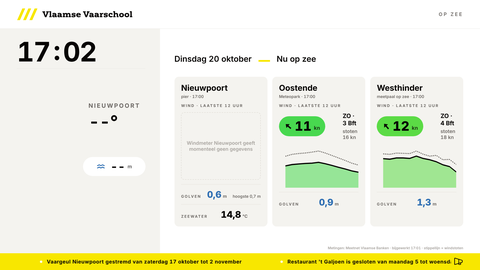
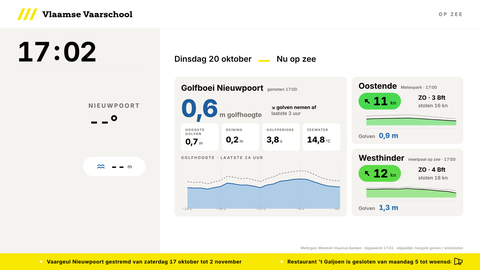
Nu op zee: golfboei Nieuwpoort centraal, wind Oostende en Westhinder ernaast
Claude-Session: https://claude.ai/code/session_015pmcVukAZiAihLGu2aahse

diff --git a/nu-op-zee.html b/nu-op-zee.html
@@ -167,27 +167,40 @@ header{padding:3vh 3.5vw !important}
 .wtag{display:flex;align-items:center;justify-content:center;gap:.25vw;width:100%;height:100%;border-radius:1vh;font-size:var(--t-num-s);font-weight:800}
 .wtag svg{width:1.7vh;height:1.7vh;fill:currentColor;flex:none}
 
-/* ===== nu op zee ===== */
+/* ===== nu op zee: boei Nieuwpoort centraal, wind van Oostende en Westhinder ernaast ===== */
 .prog{grid-template-rows:auto 1fr !important}
 .title{margin-bottom:var(--s4) !important}
-.zee{display:grid;grid-template-columns:repeat(3,minmax(0,1fr));gap:1vw;min-height:0;align-content:start}
+.zee{display:grid;grid-template-columns:minmax(0,1.55fr) minmax(0,1fr);gap:1vw;min-height:0;align-content:start}
+.kol{display:grid;gap:1vw;align-content:start;min-width:0}
+.wk{gap:var(--s1) !important;padding:var(--s2) 1.4vw !important}
 .st{background:var(--panel);border-radius:1.6vh;padding:var(--s3) 1.4vw;display:grid;gap:var(--s2);align-content:start;min-width:0;overflow:hidden}
-.st .nm{display:grid;gap:.4vh}
+.st .nm{display:flex;align-items:baseline;gap:.8vw;flex-wrap:wrap}
 .st .nm b{font-size:var(--t-title);font-weight:700}
-.st .nm span{font-size:1.5vh;font-weight:600;color:var(--muted);white-space:nowrap}
+.st .nm span{font-size:1.5vh;font-weight:600;color:var(--muted)}
 .st .k{font-size:var(--t-label);font-weight:700;letter-spacing:.2em;text-transform:uppercase;color:var(--muted)}
-.st .wind{display:flex;align-items:center;gap:1vw}
-.st .big{display:flex;align-items:center;gap:.5vw;height:7.4vh;padding:0 1.1vw;border-radius:999px;font-size:4.8vh;flex:none;font-weight:800;line-height:1}
-.st .big svg{width:3vh;height:3vh;fill:currentColor}
-.st .big small{font-size:1.9vh;font-weight:700;opacity:.75;margin-top:1.4vh}
-.st .wtx{display:grid;gap:.5vh;font-size:var(--t-text);font-weight:600;color:var(--muted);min-width:0}
-.st .wtx b{color:var(--fg);font-weight:700;font-size:2.2vh}
-.st svg.spark{width:100%;height:16vh;display:block}
-.st .rij{display:flex;align-items:baseline;justify-content:space-between;gap:.6vw;padding-top:var(--s2);border-top:1px solid #e2dfd8}
-.st .rij .v{font-size:3.4vh;font-weight:800;color:#2f6fb3}
-.st .rij .v small{font-size:1.6vh;font-weight:700;color:var(--muted);margin-left:.3vw}
-.st .rij .x{font-size:1.5vh;font-weight:600;color:var(--muted);text-align:right}
-.st .geen{font-size:var(--t-text);font-weight:600;color:var(--soft);height:calc(7.4vh + 16vh + var(--s2));display:flex;align-items:center;justify-content:center;text-align:center;border:2px dashed #e2dfd8;border-radius:1.2vh;padding:0 1vw}
+/* boei */
+.boei .hoofd{display:flex;align-items:flex-end;gap:2vw}
+.boei .gh{display:flex;align-items:baseline;gap:.4vw;color:#1f5d9e}
+.boei .gh b{font-size:9vh;font-weight:800;line-height:.9;letter-spacing:-.02em}
+.boei .gh small{font-size:2.4vh;font-weight:700;color:var(--muted)}
+.boei .trend{font-size:var(--t-text);font-weight:700;padding-bottom:1vh}
+.boei .feiten{display:grid;grid-template-columns:repeat(4,minmax(0,1fr));gap:.6vw}
+.boei .f{background:#fff;border-radius:1.2vh;padding:var(--s2) .9vw;display:grid;gap:.4vh}
+.boei .f .k{font-size:1.2vh;letter-spacing:.14em}
+.boei .f b{font-size:3vh;font-weight:800}
+.boei .f b small{font-size:1.5vh;font-weight:700;color:var(--muted);margin-left:.2vw}
+.boei svg.golf{width:100%;height:17vh;display:block}
+/* windkaarten */
+.wk .wind{display:flex;align-items:center;gap:1vw}
+.wk .big{display:flex;align-items:center;gap:.5vw;height:6.2vh;padding:0 1vw;border-radius:999px;font-size:4.2vh;font-weight:800;line-height:1;flex:none}
+.wk .big svg{width:2.8vh;height:2.8vh;fill:currentColor}
+.wk .big small{font-size:1.8vh;font-weight:700;opacity:.75;margin-top:1.3vh}
+.wk .wtx{display:grid;gap:.5vh;font-size:var(--t-text);font-weight:600;color:var(--muted);min-width:0}
+.wk .wtx b{color:var(--fg);font-weight:700;font-size:2.2vh}
+.wk svg.spark{width:100%;height:5.5vh;display:block}
+.wk .rij{display:flex;align-items:baseline;gap:.8vw;padding-top:var(--s1);border-top:1px solid #e2dfd8;font-size:var(--t-text);font-weight:600;color:var(--muted)}
+.wk .rij b{font-size:2.6vh;font-weight:800;color:#2f6fb3}
+.geen{font-size:var(--t-text);font-weight:600;color:var(--soft)}
 .src{font-size:1.3vh;font-weight:600;color:var(--soft)}
 
 </style>
@@ -249,11 +262,12 @@ const windTag=(kn,dir,extra="")=>{const c=windFill(kn);return `<span class="wtag
 
 /* ---------- nu op zee ----------
    Echte metingen van het Meetnet Vlaamse Banken (via het Apps Script "VVS Meetnet").
-   Per station: wind (gemiddeld, stoten, richting) en golfhoogte. Wind in m/s → knopen.
-   Een meting ouder dan 60 minuten telt als "geen recente meting". */
+   Links: de golfboei van Nieuwpoort (de belangrijkste voor VVS). Rechts: wind in Oostende en op de Westhinder.
+   Wind in m/s → knopen, golven in cm → m. Ouder dan 60 min (golven 90 min) = geen recente meting. */
 const MEETNET_URL="https://script.google.com/macros/s/AKfycbyqwihodr-9sSxnsg8s-4m0jpcdCpMeMi9-0u7YmMVJE1ZrU1nbyXQ88DQ4D0jSqmms/exec";
-const STATIONS=[
-  {naam:"Nieuwpoort",sub:"pier",wind:["NP7"],golf:"NPBGHA",golfMax:"NPBGH1",temp:"NPBTZW"},
+const BOEI={golf:"NPBGHA",hoog:"NPBGH1",deining:"NPBHLF",periode:"NPBGTZ",temp:"NPBTZW"};
+const WINDSTATIONS=[
+  {naam:"Nieuwpoort",sub:"pier",wind:["NP7"],verberg:true},          // alleen tonen als de windmeter werkt
   {naam:"Oostende",sub:"Meteopark",wind:["OMP","OS7"],golf:"OSNGHA"},
   {naam:"Westhinder",sub:"meetpaal op zee",wind:["MP7"],golf:"WHIGHA"}];
 const KN=1.943844, VERS=60*6e4;
@@ -261,39 +275,57 @@ let ZEE=null;
 const hm=d=>pad2(d.getHours())+":"+pad2(d.getMinutes());
 const reeksVan=(R,id)=>(R[id]||[]).filter(x=>x[1]!=null).map(([t,v])=>({t:new Date(t),v}));
 const laatste=r=>r.length?r[r.length-1]:null;
+const vers=(x,ms)=>x&&Date.now()-x.t<ms?x:null;
 async function loadZee(){
   try{const r=await fetch(MEETNET_URL,{cache:"no-store"});const d=await r.json();if(!d.reeksen)throw 0;ZEE=d;renderZee();}
   catch(e){if(ZEE)renderZee();}
 }
-function spark(sp,gs){
-  if(sp.length<2)return "";
-  const W=400,H=90,t1=Date.now(),t0=t1-12*36e5,mx=Math.max(10,...gs.map(x=>x.v),...sp.map(x=>x.v))*1.1;
-  const X=t=>(t-t0)/(t1-t0)*W,Y=v=>H-v/mx*(H-6);
-  const pts=sp.filter(x=>x.t>=t0),gp=gs.filter(x=>x.t>=t0);if(pts.length<2)return "";
-  const ln=a=>a.map((x,i)=>(i?"L":"M")+X(x.t).toFixed(1)+" "+Y(x.v).toFixed(1)).join("");
-  const kleur=rgb(windFill(laatste(pts).v));
-  return `<svg class="spark" viewBox="0 0 ${W} ${H}" preserveAspectRatio="none"><path d="${ln(pts)}L${X(laatste(pts).t)} ${H}L${X(pts[0].t)} ${H}Z" fill="${kleur}" opacity=".55"/>`+
-    (gp.length>1?`<path d="${ln(gp)}" fill="none" stroke="#6e6a66" stroke-width="2" stroke-dasharray="5 4"/>`:"")+
-    `<path d="${ln(pts)}" fill="none" stroke="#070504" stroke-width="2.5"/></svg>`;
+function lijn(reeksen,uren,H,opties={}){
+  const W=600,t1=Date.now(),t0=t1-uren*36e5;
+  const alle=reeksen.flatMap(r=>r.pts.filter(x=>x.t>=t0));if(alle.length<2)return "";
+  const mx=Math.max(opties.min||0,...alle.map(x=>x.v))*1.12,X=t=>(t-t0)/(t1-t0)*W,Y=v=>H-6-v/mx*(H-14);
+  const d=a=>a.map((x,i)=>(i?"L":"M")+X(x.t).toFixed(1)+" "+Y(x.v).toFixed(1)).join("");
+  let s="";
+  if(opties.as)for(let u=0;u<=uren;u+=6){const x=X(t1-(uren-u)*36e5);s+=`<line x1="${x}" x2="${x}" y1="0" y2="${H}" stroke="#e2dfd8"/>`;
+    s+=`<text x="${Math.min(W-4,Math.max(4,x))}" y="${H-1}" text-anchor="${u===0?"start":u===uren?"end":"middle"}" font-size="13" font-weight="600" fill="#a8a49f">${u===uren?"nu":"−"+(uren-u)+" u"}</text>`;}
+  reeksen.forEach(r=>{const p=r.pts.filter(x=>x.t>=t0);if(p.length<2)return;
+    if(r.vlak)s+=`<path d="${d(p)}L${X(laatste(p).t)} ${H-6}L${X(p[0].t)} ${H-6}Z" fill="${r.vlak}" opacity="${r.op||.5}"/>`;
+    s+=`<path d="${d(p)}" fill="none" stroke="${r.lijn}" stroke-width="${r.dik||2.5}" ${r.stip?'stroke-dasharray="6 5"':""} stroke-linejoin="round"/>`;});
+  return `<svg class="${opties.cls||"spark"}" viewBox="0 0 ${W} ${H}" preserveAspectRatio="none">${s}</svg>`;
+}
+function boeiKaart(R){
+  const g=reeksVan(R,BOEI.golf),gl=vers(laatste(g),90*6e4);
+  const hoog=vers(laatste(reeksVan(R,BOEI.hoog)),90*6e4),dein=vers(laatste(reeksVan(R,BOEI.deining)),90*6e4),
+        per=vers(laatste(reeksVan(R,BOEI.periode)),90*6e4),tmp=vers(laatste(reeksVan(R,BOEI.temp)),3*36e5);
+  if(!gl)return `<div class="st boei"><div class="nm"><b>Golfboei Nieuwpoort</b></div><div class="geen">De boei geeft momenteel geen gegevens.</div></div>`;
+  const vroeger=g.filter(x=>x.t<=new Date(gl.t-3*36e5)).pop(),dv=vroeger?gl.v-vroeger.v:0;
+  const trend=Math.abs(dv)<8?"stabiel":dv>0?"↗ golven nemen toe":"↘ golven nemen af";
+  const m=v=>kom((v/100).toFixed(1));
+  const feit=(k,v,e)=>`<div class="f"><span class="k">${k}</span><b>${v}<small>${e}</small></b></div>`;
+  return `<div class="st boei"><div class="nm"><b>Golfboei Nieuwpoort</b><span>gemeten ${hm(gl.t)}</span></div>
+    <div class="hoofd"><div class="gh"><b>${m(gl.v)}</b><small>m golfhoogte</small></div><div class="trend">${trend}<br><span style="color:var(--muted);font-weight:600">laatste 3 uur</span></div></div>
+    <div class="feiten">${feit("Hoogste golven",hoog?m(hoog.v):"–","m")}${feit("Deining",dein?m(dein.v):"–","m")}${feit("Golfperiode",per?kom(per.v.toFixed(1)):"–","s")}${feit("Zeewater",tmp?kom(tmp.v.toFixed(1)):"–","°C")}</div>
+    <div class="k">Golfhoogte · laatste 24 uur</div>
+    ${lijn([{pts:reeksVan(R,BOEI.hoog).map(x=>({t:x.t,v:x.v/100})),lijn:"#6e6a66",stip:true,dik:2},{pts:g.map(x=>({t:x.t,v:x.v/100})),lijn:"#1f5d9e",vlak:"#6aa7e0",dik:3}],24,190,{cls:"golf",as:true,min:.5})}</div>`;
+}
+function windKaart(R,s){
+  let sp=[],gs=[],dr=[];
+  for(const p of s.wind){const a=reeksVan(R,p+"WVC");if(a.length&&Date.now()-laatste(a).t<VERS){sp=a.map(x=>({t:x.t,v:x.v*KN}));gs=reeksVan(R,p+"WC3").map(x=>({t:x.t,v:x.v*KN}));dr=reeksVan(R,p+"WRS");break;}}
+  const w=laatste(sp),g=laatste(gs),d=laatste(dr);
+  if(!w&&s.verberg)return "";
+  const golf=s.golf?vers(laatste(reeksVan(R,s.golf)),90*6e4):null;
+  const c=w?windFill(w.v):null;
+  return `<div class="st wk"><div class="nm"><b>${s.naam}</b><span>${s.sub}${w?" · "+hm(w.t):""}</span></div>
+    ${w?`<div class="wind"><div class="big" style="background:${rgb(c)};color:${ink(c)}">${d?arrow(d.v):""}${Math.round(w.v)}<small>kn</small></div>
+      <div class="wtx"><b>${d?dirName(d.v)+" · ":""}${bft(w.v)} Bft</b>${g?`stoten ${Math.round(g.v)} kn`:""}</div></div>
+      ${lijn([{pts:sp,lijn:"#070504",vlak:rgb(c),op:.55},{pts:gs,lijn:"#6e6a66",stip:true,dik:2}],12,70,{min:10})}`
+     :`<div class="geen">Windmeter geeft momenteel geen gegevens.</div>`}
+    ${golf?`<div class="rij">Golven <b>${kom((golf.v/100).toFixed(1))} m</b></div>`:""}</div>`;
 }
 function renderZee(){
-  if(!ZEE)return;const R=ZEE.reeksen,nu=Date.now();
-  $("zee").innerHTML=STATIONS.map(s=>{
-    let sp=[],gs=[],dr=[];
-    for(const p of s.wind){const a=reeksVan(R,p+"WVC");if(a.length&&nu-laatste(a).t<VERS){sp=a.map(x=>({t:x.t,v:x.v*KN}));gs=reeksVan(R,p+"WC3").map(x=>({t:x.t,v:x.v*KN}));dr=reeksVan(R,p+"WRS");break;}}
-    const w=laatste(sp),g=laatste(gs),d=laatste(dr);
-    const golf=reeksVan(R,s.golf),gl=laatste(golf),gv=gl&&nu-gl.t<2*VERS?gl:null;
-    const gmax=s.golfMax?laatste(reeksVan(R,s.golfMax)):null;
-    const temp=s.temp?laatste(reeksVan(R,s.temp)):null;
-    const tijd=w?w.t:gv?gv.t:null;
-    const c=w?windFill(w.v):null;
-    const windHtml=w?`<div class="wind"><div class="big" style="background:${rgb(c)};color:${ink(c)}">${d?arrow(d.v):""}${Math.round(w.v)}<small>kn</small></div>
-        <div class="wtx"><b>${d?dirName(d.v)+" · ":""}${bft(w.v)} Bft</b>${g?`stoten ${Math.round(g.v)} kn`:""}</div></div>${spark(sp,gs)}`
-      :`<div class="geen">Windmeter ${s.naam} geeft momenteel geen gegevens</div>`;
-    const golfHtml=`<div class="rij"><span class="k">Golven</span><span class="v">${gv?kom((gv.v/100).toFixed(1)):"–"}<small>m</small></span><span class="x">${gv&&gmax?"hoogste "+kom((gmax.v/100).toFixed(1))+" m":""}</span></div>`;
-    const tempHtml=temp?`<div class="rij"><span class="k">Zeewater</span><span class="v" style="color:var(--fg)">${kom(temp.v.toFixed(1))}<small>°C</small></span><span class="x"></span></div>`:"";
-    return `<div class="st"><div class="nm"><b>${s.naam}</b><span>${s.sub}${tijd?" · "+hm(tijd):""}</span></div><div class="k">Wind · laatste 12 uur</div>${windHtml}${golfHtml}${tempHtml}</div>`;}).join("");
-  $("src").textContent="Metingen: Meetnet Vlaamse Banken · bijgewerkt "+hm(new Date(ZEE.bijgewerkt))+" · stippellijn = windstoten";
+  if(!ZEE)return;const R=ZEE.reeksen;
+  $("zee").innerHTML=boeiKaart(R)+`<div class="kol">${WINDSTATIONS.map(s=>windKaart(R,s)).join("")}</div>`;
+  $("src").textContent="Metingen: Meetnet Vlaamse Banken · bijgewerkt "+hm(new Date(ZEE.bijgewerkt))+" · stippellijn: hoogste golven / windstoten";
 }
 
 /* ---------- klok ---------- */
